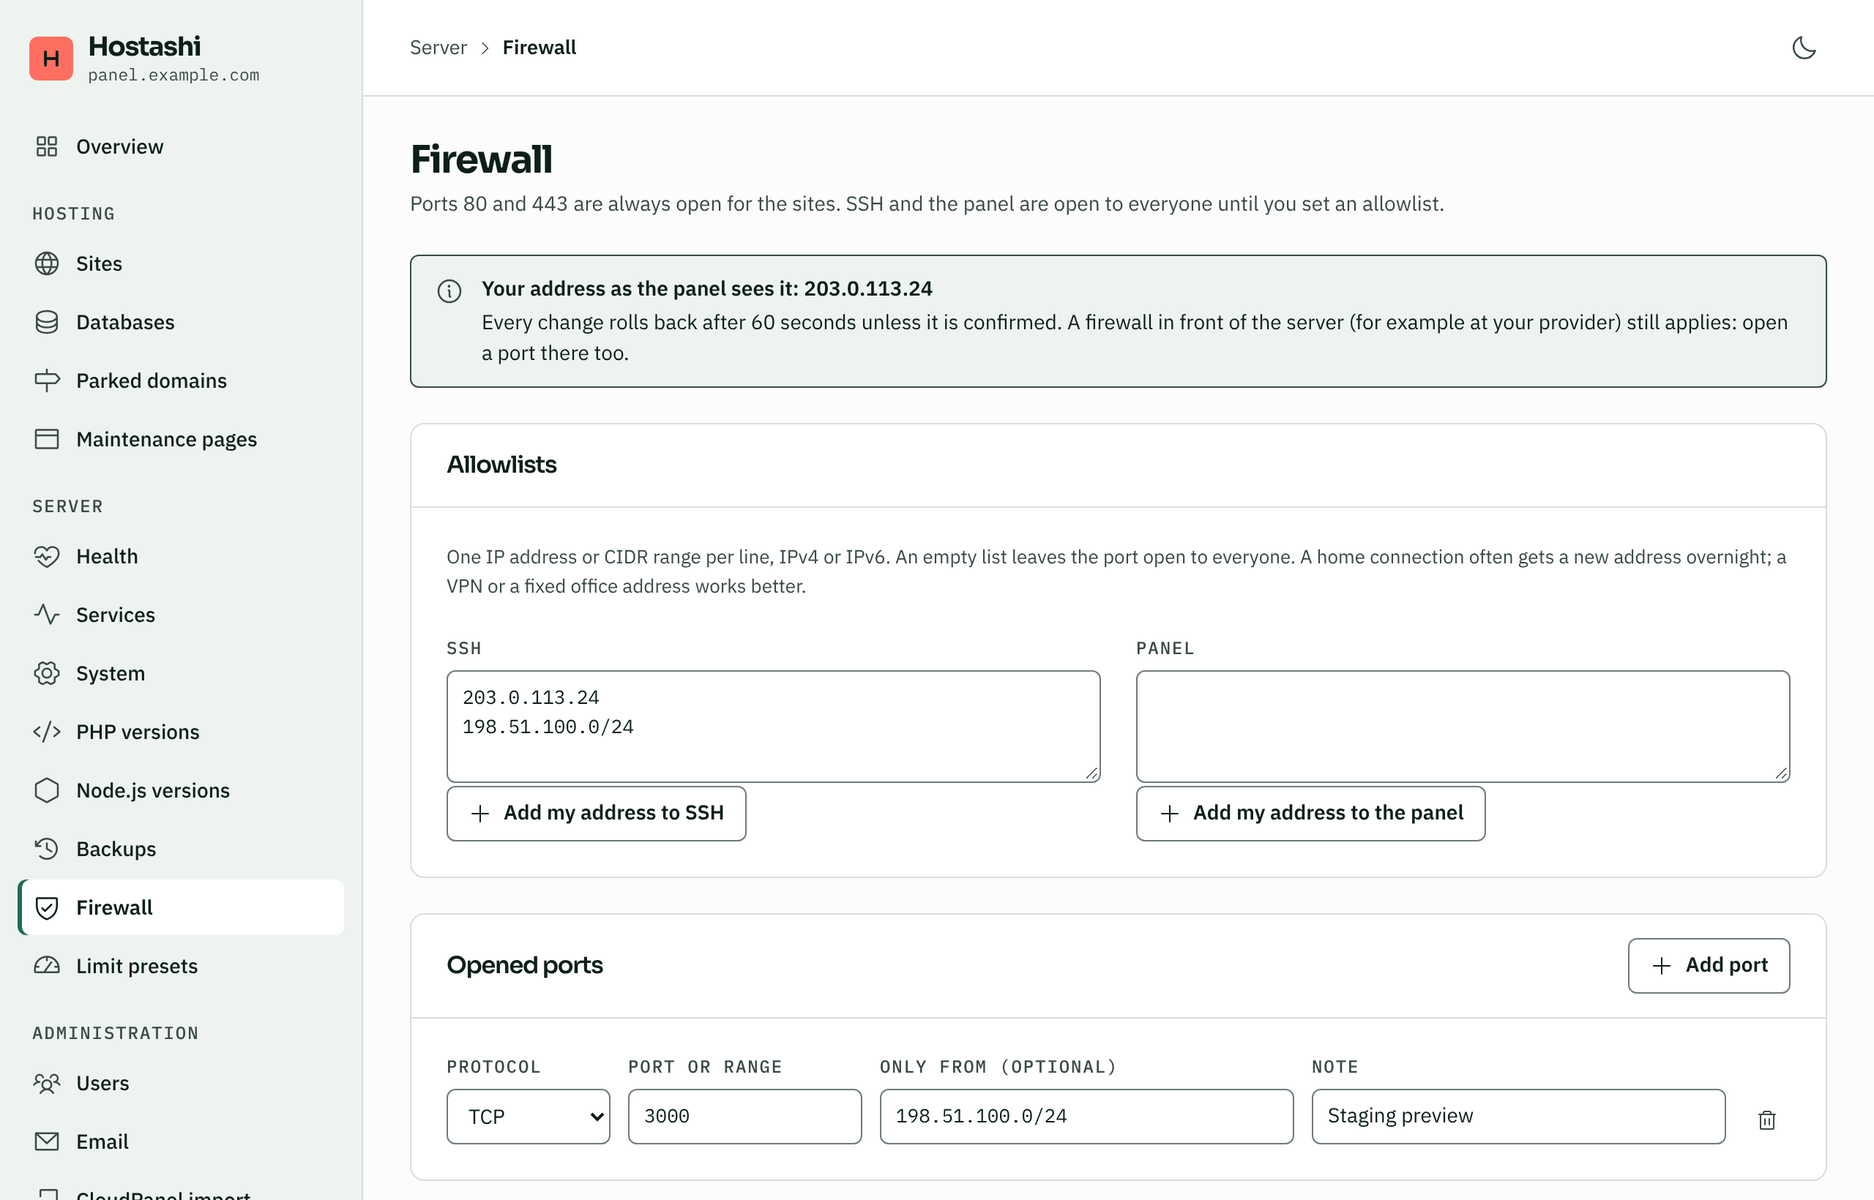
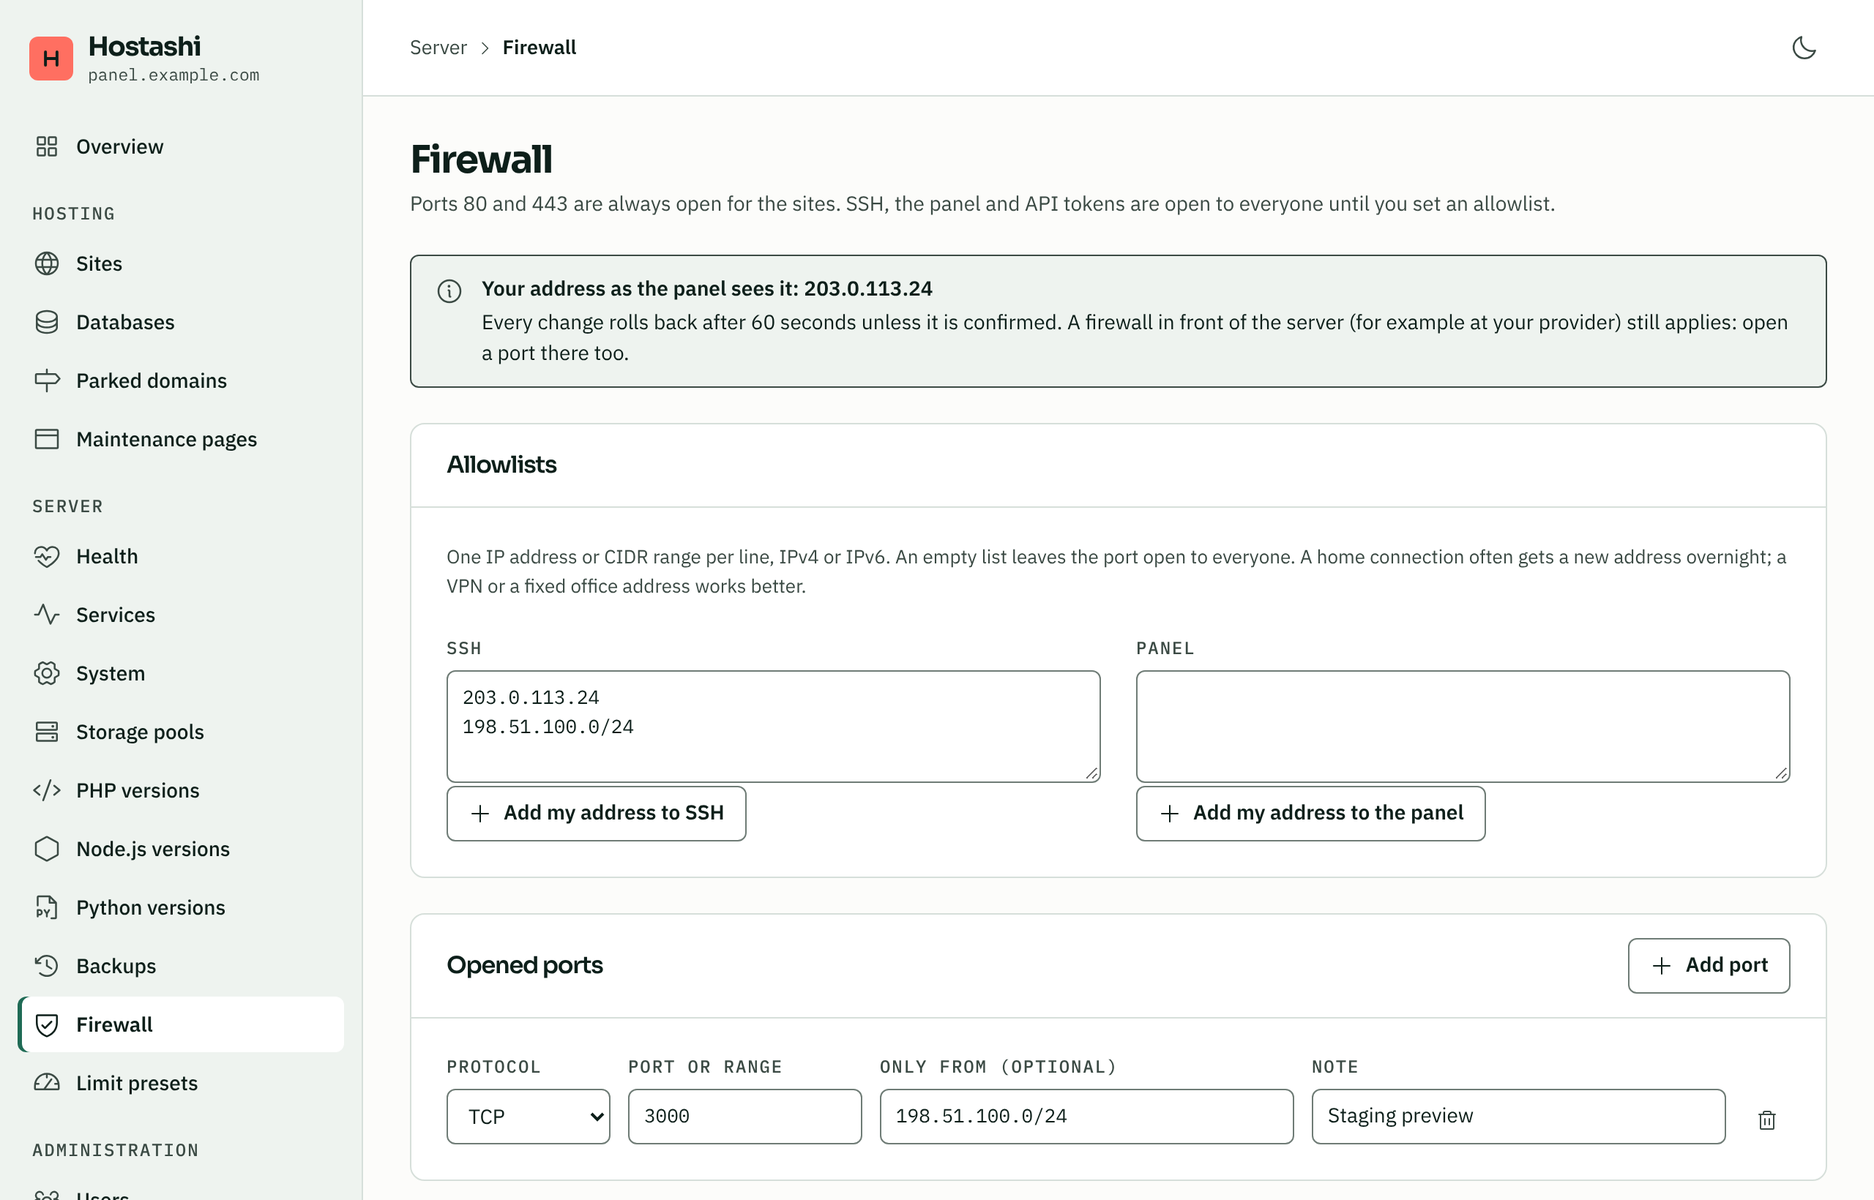
feat(panel): set where API tokens are accepted from; loopback always allowed (#444)
<!-- claude-projects-attribution: {"github_login":"kimdre"} -->
_Requested by **Kim** · [project
thread](https://claude.ai/code/project/chan_01ALnqCLrQvqEQfEqJ3W4NGd?thread=cmsg_01ALnqCLrQvqEQfEqJ3W4NGdFZ1SNP2PRLHkLuGca67dxr)_

## What and why

The API IP allowlist for tokens (ADR-0018, `GET/PUT
/api/v1/settings/api-ip-allowlist`, admins only, session only) had no
panel UI. Follow-up to #433.

- New card **API tokens** on the Firewall page: textarea with one
address or CIDR per line, *Add my address*, own *Save*.
- It is not part of the firewall form: no rollback, applies at once, and
is also shown when Hostashi's firewall is off (`--no-firewall`). Browser
logins are not affected, so a wrong list cannot lock an admin out.
- **Backend:** 127.0.0.1 and ::1 are now always allowed (Kim,
2026-11-24), so the `hostashi` command on the server keeps working.
Exactly these two addresses, not 127.0.0.0/8. A remote client cannot
claim loopback: the address comes from nginx's `X-Real-IP` (Unix socket)
or the TCP peer, trusted real-IP ranges may never contain loopback
(`agentapi.checkRealIPRange`), and proxy sites may not target loopback
(`ProxyAddrAllowed`). A token is still required. ADR-0018 got one
sentence recording this; OpenAPI summary updated and regenerated.
- Server errors are shown without the Go prefix (`auth: invalid IP
allowlist: …`).
- The token card on *Your account* tells admins where the list lives.
[…]

diff --git a/web/src/TokenAllowlist.tsx b/web/src/TokenAllowlist.tsx
@@ -1,0 +1,102 @@
+// SPDX-License-Identifier: AGPL-3.0-or-later
+
+import { Plus } from "@phosphor-icons/react";
+import { useEffect, useState, type FormEvent } from "react";
+import { parseList } from "./firewall";
+import { getTokenAllowlist, setTokenAllowlist, tokenMessage } from "./tokens";
+import { Button, Card, Field, Notice } from "./ui";
+
+// TokenAllowlistCard limits where API tokens may be used from (ADR-0018).
+// It is not part of the firewall: it applies at once, has no rollback and
+// works when Hostashi's firewall is off. Browser logins are not affected, so
+// a wrong list cannot lock an admin out of the panel. The server itself is
+// always allowed.
+export function TokenAllowlistCard({ clientIp }: { clientIp?: string | undefined }) {
+  const [saved, setSaved] = useState<string[] | null>(null);
+  const [text, setText] = useState("");
+  const [busy, setBusy] = useState(false);
+  const [error, setError] = useState("");
+  const [done, setDone] = useState(false);
+
+  useEffect(() => {
+    getTokenAllowlist().then(
+      (l) => {
+        setSaved(l);
+        setText(l.join("\n"));
+      },
+      (err: unknown) => setError(tokenMessage(err)),
+    );
+  }, []);
+
+  const list = parseList(text);
+  const changed = saved !== null && list.join("\n") !== saved.join("\n");
+
+  const add = (entry: string) => {
+    if (!list.includes(entry)) setText([...list, entry].join("\n"));
+    setDone(false);
+  };
+
+  async function save(e: FormEvent) {
+    e.preventDefault();
+    setBusy(true);
+    setError("");
+    setDone(false);
+    try {
+      const l = await setTokenAllowlist(list);
+      setSaved(l);
+      setText(l.join("\n"));
+      setDone(true);
+    } catch (err) {
+      setError(tokenMessage(err));
+    } finally {
+      setBusy(false);
+    }
+  }
+
+  return (
+    <Card title="API tokens">
+      {saved === null && !error ? (
+        <p aria-busy="true">Loading…</p>
+      ) : (
+        <form className="ui-stack" onSubmit={(e) => void save(e)}>
+          <p className="ui-hint ui-flush">
+            Addresses API tokens are accepted from, one IP address or CIDR range per line. An empty list accepts them from anywhere. This
+            is not a firewall rule: it applies at once, to every account&apos;s tokens, and logins in the browser keep working. The server
+            itself (127.0.0.1 and ::1) is always allowed, so the hostashi command on it keeps working.
+          </p>
+          <div className="ui-narrow">
+            <Field label="Allowed addresses">
+              <textarea
+                className="ui-input ui-textarea ui-mono"
+                value={text}
+                onChange={(e) => {
+                  setText(e.target.value);
+                  setDone(false);
+                }}
+                rows={4}
+                spellCheck={false}
+                placeholder="Anywhere"
+              />
+            </Field>
+          </div>
+          {clientIp && (
+            <div className="ui-row">
+              <Button icon={<Plus size={16} aria-hidden="true" />} onClick={() => add(clientIp)}>
+                Add my address
+              </Button>
+            </div>
+          )}
+          {error && <Notice tone="err" title={error} />}
+          {done && !changed && (
+            <Notice tone="ok" title={saved?.length ? "Saved. Tokens now work only from these addresses and the server itself." : "Saved. Tokens work from anywhere."} />
+          )}
+          <div className="ui-row">
+            <Button type="submit" variant="primary" disabled={busy || !changed}>
+              {busy ? "Saving…" : "Save"}
+            </Button>
+          </div>
+        </form>
+      )}
+    </Card>
+  );
+}

diff --git a/web/src/Firewall.test.tsx b/web/src/Firewall.test.tsx
@@ -20,9 +20,12 @@ const status = (state: Partial<FirewallState> = {}, extra: Partial<FirewallStatu
   ...extra,
 });
 
+// The API token card on the page loads its own list.
+const allow = { "GET /api/v1/settings/api-ip-allowlist": { body: { entries: [] } } };
+
 describe("Firewall", () => {
   it("explains a server installed without the firewall", async () => {
-    mockFetch({ "GET /api/v1/firewall": { body: status({}, { enabled: false }) } });
+    mockFetch({ ...allow, "GET /api/v1/firewall": { body: status({}, { enabled: false }) } });
     render(<Firewall />);
     expect(await screen.findByText(/installed with --no-firewall/)).toBeInTheDocument();
     expect(screen.queryByRole("button", { name: "Apply rules" })).not.toBeInTheDocument();
@@ -31,7 +34,7 @@ describe("Firewall", () => {
   it("opens a port and keeps it when the panel still answers", async () => {
     const user = userEvent.setup();
     let current = status();
-    const calls = mockFetch({
+    const calls = mockFetch({ ...allow,
       "GET /api/v1/firewall": () => ({ body: current }),
       "PUT /api/v1/firewall": (body) => {
         const { state } = body as { state: FirewallState };
@@ -70,7 +73,7 @@ describe("Firewall", () => {
 
   it("refuses a port it cannot read", async () => {
     const user = userEvent.setup();
-    const calls = mockFetch({ "GET /api/v1/firewall": { body: status() } });
+    const calls = mockFetch({ ...allow, "GET /api/v1/firewall": { body: status() } });
     render(<Firewall />);
     await user.click(await screen.findByRole("button", { name: "Add port" }));
     await user.type(screen.getByLabelText("Port or range"), "http");
@@ -82,7 +85,7 @@ describe("Firewall", () => {
   it("asks before an allowlist without the admin's address, and waits for the SSH test", async () => {
     const user = userEvent.setup();
     let current = status();
-    const calls = mockFetch({
+    const calls = mockFetch({ ...allow,
       "GET /api/v1/firewall": () => ({ body: current }),
       "PUT /api/v1/firewall": (body) => {
         const { state, otherWay } = body as { state: FirewallState; otherWay: boolean };
@@ -122,7 +125,7 @@ describe("Firewall", () => {
 
   it("adds the admin's address", async () => {
     const user = userEvent.setup();
-    mockFetch({ "GET /api/v1/firewall": { body: status({ panelAllow: ["192.0.2.1"] }) } });
+    mockFetch({ ...allow, "GET /api/v1/firewall": { body: status({ panelAllow: ["192.0.2.1"] }) } });
     render(<Firewall />);
     await user.click(await screen.findByRole("button", { name: "Add my address to the panel" }));
     expect(screen.getByLabelText("Panel")).toHaveValue("192.0.2.1\n198.51.100.7");
@@ -131,7 +134,7 @@ describe("Firewall", () => {
   });
 
   it("reports a rollback and a change another browser waits for", async () => {
-    mockFetch({
+    mockFetch({ ...allow,
       "GET /api/v1/firewall": {
         body: status({}, { rolledBack: "2026-11-20T10:00:00Z", pending: { deadline: inTwoMinutes() } }),
       },
@@ -144,7 +147,7 @@ describe("Firewall", () => {
 
   it("says when the change was rolled back before the confirmation", async () => {
     const user = userEvent.setup();
-    mockFetch({
+    mockFetch({ ...allow,
       "GET /api/v1/firewall": { body: status() },
       "PUT /api/v1/firewall": { body: status({}, { pending: { id: ID, deadline: inTwoMinutes() } }) },
       "POST /api/v1/firewall/confirm": { status: 404, body: { error: { code: "not_pending", message: "x" } } },

diff --git a/web/src/TokenAllowlist.test.tsx b/web/src/TokenAllowlist.test.tsx
@@ -1,0 +1,50 @@
+// SPDX-License-Identifier: AGPL-3.0-or-later
+
+import { render, screen } from "@testing-library/react";
+import userEvent from "@testing-library/user-event";
+import { describe, expect, it } from "vitest";
+import { TokenAllowlistCard } from "./TokenAllowlist";
+import { mockFetch } from "./test-utils";
+
+describe("TokenAllowlistCard", () => {
+  it("adds my address and saves", async () => {
+    const user = userEvent.setup();
+    const calls = mockFetch({
+      "GET /api/v1/settings/api-ip-allowlist": { body: { entries: [] } },
+      "PUT /api/v1/settings/api-ip-allowlist": (body) => ({
+        body: { entries: (body as { entries: string[] }).entries.map((e) => (e.includes("/") ? e : e + (e.includes(":") ? "/128" : "/32"))) },
+      }),
+    });
+    render(<TokenAllowlistCard clientIp="198.51.100.7" />);
+
+    const save = await screen.findByRole("button", { name: "Save" });
+    expect(save).toBeDisabled();
+    expect(screen.getByText(/The server itself \(127\.0\.0\.1 and ::1\) is always allowed/)).toBeInTheDocument();
+
+    await user.click(screen.getByRole("button", { name: "Add my address" }));
+    await user.click(screen.getByRole("button", { name: "Add my address" }));
+    expect(screen.getByLabelText("Allowed addresses")).toHaveValue("198.51.100.7");
+    await user.type(screen.getByLabelText("Allowed addresses"), "\n2001:db8::/32");
+
+    await user.click(save);
+    expect(await screen.findByText("Saved. Tokens now work only from these addresses and the server itself.")).toBeInTheDocument();
+    expect(calls.find((c) => c.method === "PUT")?.body).toEqual({ entries: ["198.51.100.7", "2001:db8::/32"] });
+    expect(screen.getByLabelText("Allowed addresses")).toHaveValue("198.51.100.7/32\n2001:db8::/32");
+    expect(save).toBeDisabled();
+  });
+
+  it("shows what the server refuses", async () => {
+    const user = userEvent.setup();
+    mockFetch({
+      "GET /api/v1/settings/api-ip-allowlist": { body: { entries: [] } },
+      "PUT /api/v1/settings/api-ip-allowlist": {
+        status: 422,
+        body: { error: { code: "invalid_argument", message: 'auth: invalid IP allowlist: "office" is not an address or network' } },
+      },
+    });
+    render(<TokenAllowlistCard />);
+    await user.type(await screen.findByLabelText("Allowed addresses"), "office");
+    await user.click(screen.getByRole("button", { name: "Save" }));
+    expect(await screen.findByText('"office" is not an address or network')).toBeInTheDocument();
+  });
+});

diff --git a/web/src/Tokens.tsx b/web/src/Tokens.tsx
@@ -2,6 +2,7 @@
 
 import { Plus, Prohibit } from "@phosphor-icons/react";
 import { useEffect, useRef, useState, type FormEvent } from "react";
+import { formatHash } from "./routes";
 import { GrantFields, grantReady, useGrant } from "./TokenGrant";
 import { createToken, listTokens, revokeToken, tokenMessage, tokenState, type APIToken, type CreatedToken, type TokenState } from "./tokens";
 import { Badge, Button, Card, Field, IconButton, Notice, RelTime, RowActions, Table, type Column, type Tone } from "./ui";
@@ -16,7 +17,7 @@ const states: Record<TokenState, { label: string; tone: Tone }> = {
 // TokensCard lists the account's API tokens and creates and revokes them
 // (ADR-0018). A token never gets more than its owner: only the scopes of the
 // role and only sites the account reaches (ADR-0035).
-export function TokensCard() {
+export function TokensCard({ admin = false }: { admin?: boolean }) {
   const [tokens, setTokens] = useState<APIToken[] | null>(null);
   const [error, setError] = useState("");
   const [creating, setCreating] = useState(false);
@@ -146,6 +147,12 @@ export function TokensCard() {
           <p className="ui-flush ui-hint">
             Tokens let scripts, monitoring and the hostashi command line use the API as you. Each has its own scopes, sites and lifetime, and
             you can revoke each one on its own.
+            {admin && (
+              <>
+                {" "}
+                Where tokens are accepted from is set under <a href={formatHash({ page: "firewall" })}>Firewall</a>.
+              </>
+            )}
           </p>
           {revoking && (
             <Notice tone="warn" title={`Revoke the token “${revoking.name}”?`}>

diff --git a/web/src/Firewall.tsx b/web/src/Firewall.tsx
@@ -15,6 +15,7 @@ import {
   type FirewallState,
 } from "./firewall";
 import { Button, Card, Field, IconButton, Notice, PageHead, RelTime } from "./ui";
+import { TokenAllowlistCard } from "./TokenAllowlist";
 
 type RuleDraft = { proto: "tcp" | "udp"; ports: string; sources: string; note: string };
 
@@ -79,7 +80,7 @@ export function Firewall() {
   const head = (
     <PageHead
       title="Firewall"
-      description="Ports 80 and 443 are always open for the sites. SSH and the panel are open to everyone until you set an allowlist."
+      description="Ports 80 and 443 are always open for the sites. SSH, the panel and API tokens are open to everyone until you set an allowlist."
     />
   );
 
@@ -106,6 +107,7 @@ export function Firewall() {
           Use the firewall in front of the server (for example at your provider), and let only SSH, 80, 443 and the panel port through.
           Run the installer again without --no-firewall to manage the rules here.
         </Notice>
+        <TokenAllowlistCard clientIp={fw.clientIp} />
       </>
     );
   }
@@ -115,6 +117,7 @@ export function Firewall() {
       {head}
       {error && <Notice tone="err" title={error} />}
       <Editor key={JSON.stringify(fw.state) + (fw.pending?.deadline ?? "")} fw={fw} reload={load} flash={flash} setFlash={setFlash} />
+      <TokenAllowlistCard clientIp={fw.clientIp} />
     </>
   );
 }

diff --git a/web/src/tokens.ts b/web/src/tokens.ts
@@ -71,9 +71,21 @@ export function tokenMessage(err: unknown): string {
       case "not_found":
         return "This token does not exist any more. Reload the page.";
       case "invalid_argument":
-        return err.message;
+        // "auth: invalid IP allowlist: …" -> "…"
+        return err.message.replace(/^auth: [^:]+: /, "");
+      case "forbidden":
+        return "Only admins can change this.";
     }
     return err.message;
   }
   return "The server is not reachable.";
 }
+
+// The addresses API tokens may be used from (ADR-0018). It is one list for
+// the whole panel, kept by admins; an empty list accepts tokens from
+// anywhere. 127.0.0.1 and ::1 are always allowed. Browser logins are not
+// affected.
+export const getTokenAllowlist = () => request<{ entries: string[] }>("GET", "/settings/api-ip-allowlist").then((r) => r.entries);
+
+export const setTokenAllowlist = (entries: string[]) =>
+  request<{ entries: string[] }>("PUT", "/settings/api-ip-allowlist", { entries }).then((r) => r.entries);

diff --git a/web/src/Account.tsx b/web/src/Account.tsx
@@ -64,7 +64,7 @@ export function Account({ user, onScheme }: { user: User; onScheme: (s: ColorSch
       <SecurityCard user={user} />
       <EmailCard />
       <NotificationsCard />
-      <TokensCard />
+      <TokensCard admin={user.role === "admin"} />
     </>
   );
 }

diff --git a/internal/auth/tokens.go b/internal/auth/tokens.go
@@ -416,6 +416,10 @@ func (s *Service) SetIPAllowlist(ctx context.Context, userID int64, entries []st
 	return norm, nil
 }
 
+var loopback4 = netip.AddrFrom4([4]byte{127, 0, 0, 1})
+
+// tokenIPAllowed reports whether a token may be used from ip. An empty
+// allowlist allows every address; 127.0.0.1 and ::1 are always allowed.
 func (s *Service) tokenIPAllowed(ctx context.Context, ip string) (bool, error) {
 	list, err := s.IPAllowlist(ctx)
 	if err != nil {
@@ -432,6 +436,15 @@ func (s *Service) tokenIPAllowed(ctx context.Context, ip string) (bool, error) {
 	}
 
 	addr = addr.Unmap()
+
+	// The server itself is always allowed: the hostashi command on it talks
+	// to http://127.0.0.1:8080 (Kim, 2026-11-24). Only nginx's X-Real-IP or
+	// a TCP peer sets the address, and a trusted proxy range may never hold
+	// loopback (agentapi.checkRealIPRange), so a remote client cannot claim
+	// it. Local users of the server still need a valid token.
+	if addr == loopback4 || addr == netip.IPv6Loopback() {
+		return true, nil
+	}
 
 	for _, e := range list {
 		p, err := netip.ParsePrefix(e)

diff --git a/internal/serve/tokens_api.go b/internal/serve/tokens_api.go
@@ -445,7 +445,7 @@ func registerTokens(mux *routeMux, a authn) {
 	})
 
 	mux.Op("PUT /api/v1/settings/api-ip-allowlist", openapi.Operation{
-		ID: "setAPIAllowlist", Tag: "settings", Summary: "Set the addresses API tokens may be used from; empty: anywhere", In: ipAllowlistRequest{}, Out: ipAllowlistJSON{},
+		ID: "setAPIAllowlist", Tag: "settings", Summary: "Set the addresses API tokens may be used from; empty: anywhere. 127.0.0.1 and ::1 are always allowed", In: ipAllowlistRequest{}, Out: ipAllowlistJSON{},
 	}, func(w http.ResponseWriter, r *http.Request) {
 		u, ok := a.sessionAllow(w, r, authz.SettingsWrite)
 		if !ok {

diff --git a/internal/auth/tokens_test.go b/internal/auth/tokens_test.go
@@ -335,7 +335,9 @@ func TestIPAllowlist(t *testing.T) {
 
 	for ip, want := range map[string]bool{
 		"198.51.100.7": true, "198.51.100.255": true, "::ffff:198.51.100.7": true, "2001:db8::1": true,
-		"198.51.101.1": false, "203.0.113.1": false, "2001:db8::2": false, "not-an-ip": false, "": false,
+		// The server itself always: the hostashi command on it.
+		"127.0.0.1": true, "::1": true, "::ffff:127.0.0.1": true,
+		"127.0.0.2": false, "198.51.101.1": false, "203.0.113.1": false, "2001:db8::2": false, "not-an-ip": false, "": false,
 	} {
 		_, err := e.svc.AuthenticateToken(ctx, nt.Secret, ip)
 

diff --git a/docs/wiki/API-tokens.md b/docs/wiki/API-tokens.md
@@ -50,3 +50,13 @@ The list shows when and from which address each token was last used, so a token 
 Every new token and every revocation is written to the [audit log](Audit-log.md), and you get an email about a new token if you have [an address set](Email-notifications.md).
 
 There can be up to 100 working tokens per account.
+
+## Limit where tokens are accepted from
+
+Admins can allow tokens only from known addresses, for example the office, the VPN and the CI runners. Open **Firewall**, go to the card **API tokens** and enter one IP address or CIDR range per line. An empty list accepts tokens from anywhere.
+
+![Where API tokens are accepted from](images/firewall-api-tokens.png)
+
+The list applies to the tokens of every account, at once. It is not a firewall rule, so it works without the Hostashi firewall and has no rollback; logins in the browser are not affected, so a wrong list cannot lock you out of the panel. A token used from another address gets `403 ip_not_allowed`, and the attempt is written to the audit log.
+
+The server itself, `127.0.0.1` and `::1`, is always allowed, so the `hostashi` command on it keeps working whatever the list says. A token is still needed from there, so a local user of the server (for example a site's SSH account) gets no more than with any other address.

diff --git a/docs/adr/0018-public-rest-api.md b/docs/adr/0018-public-rest-api.md
@@ -42,7 +42,7 @@ Option A, with these rules:
 
 ### Reachability
 
-The API is served on the panel's own address and port, no separate listener. An optional IP allowlist restricts bearer-token access; browser sessions are not affected by it [V: Kim, thread, 2026-11-18].
+The API is served on the panel's own address and port, no separate listener. An optional IP allowlist restricts bearer-token access; browser sessions are not affected by it [V: Kim, thread, 2026-11-18]. 127.0.0.1 and ::1 are always allowed, so the `hostashi` command on the server keeps working [V: Kim, thread, 2026-11-24].
 
 ### Security boundary
 
